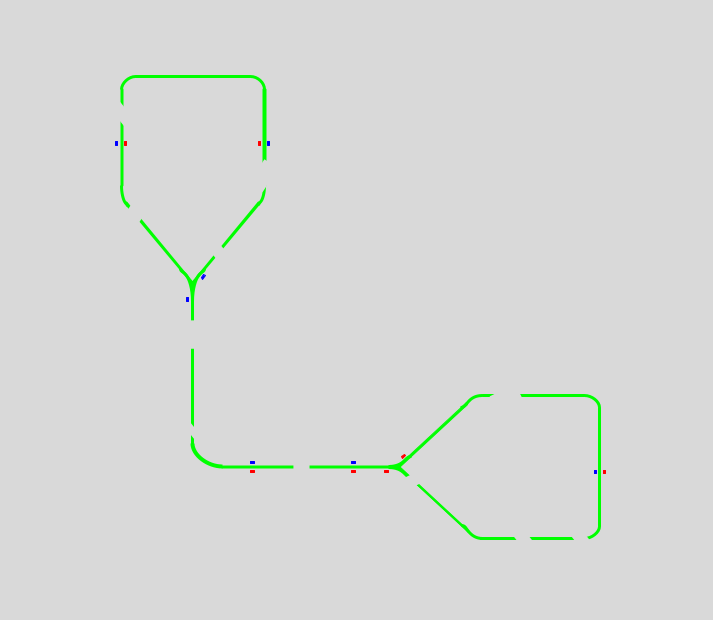
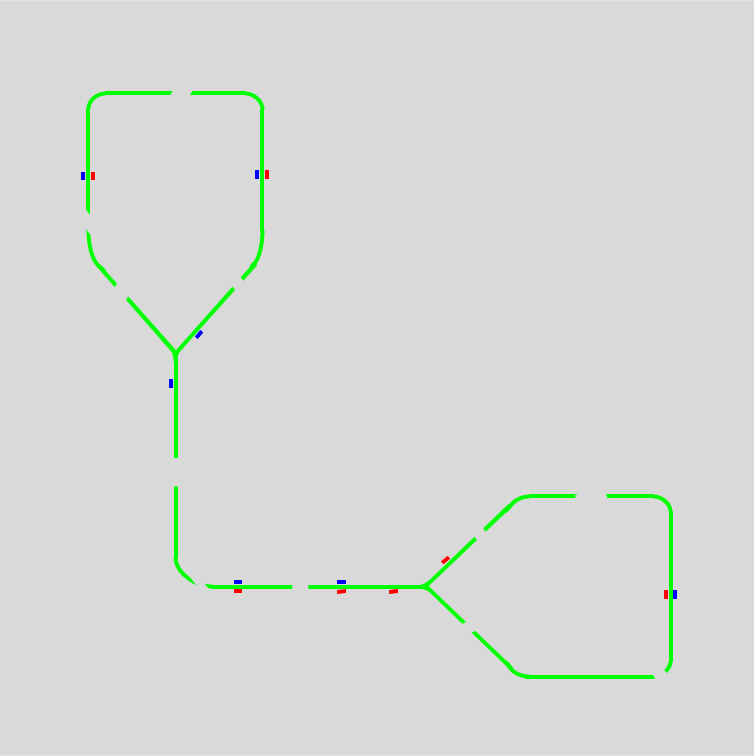
Fix the ability to fork left/right based on marker and update the track map

diff --git a/src/detector/follower_detector.py b/src/detector/follower_detector.py
@@ -22,7 +22,7 @@ class Detector:
     self.command_sub = rospy.Subscriber('mgs_command', MGSCommand, self.mgs_command_callback)
     self.measurements_pub = rospy.Publisher('mgs', MGSMeasurements, queue_size=10)
     self.detection_img_pub = rospy.Publisher('detection_image', Image, queue_size=10)
-    self.track_width = rospy.get_param('~track_width', 0.083) # 0.08216275
+    # self.track_width = rospy.get_param('~track_width', 0.104) # 0.10391598 
     self.follow_left = False
   
 
@@ -74,9 +74,9 @@ class Detector:
       m_track.type = MGSMeasurement.TRACK
       # get point
       if self.follow_left:
-        m_track.position = -np.asscalar(cloud_pts[inds[0],0] + self.track_width / 2.) - 0.0125
+        m_track.position = -np.asscalar(cloud_pts[inds[0],0]) - 0.0125
       else:
-        m_track.position = -np.asscalar(cloud_pts[inds[-1],0] - self.track_width / 2.) - 0.0125
+        m_track.position = -np.asscalar(cloud_pts[inds[-1],0]) - 0.0125
       detections_msg.measurements.append(m_track)
       # draw point:
       if self.detection_img_pub.get_num_connections() > 0:
@@ -93,7 +93,7 @@ class Detector:
       m_marker.type = MGSMeasurement.MARKER
       # get point
       ind = int(np.median(inds))
-      m_marker.position = -np.asscalar(cloud_pts[ind,0] + self.track_width / 2.) - 0.0125
+      m_marker.position = -np.asscalar(cloud_pts[ind,0]) - 0.0125
       detections_msg.measurements.append(m_marker)
       # draw point:
       if self.detection_img_pub.get_num_connections() > 0:
@@ -111,7 +111,7 @@ class Detector:
       m_marker.type = MGSMeasurement.MARKER
       # get point
       ind = int(np.median(inds))
-      m_marker.position = -np.asscalar(cloud_pts[ind,0] + self.track_width / 2.) - 0.0125
+      m_marker.position = -np.asscalar(cloud_pts[ind,0]) - 0.0125
       detections_msg.measurements.append(m_marker)
       # draw point:
       if self.detection_img_pub.get_num_connections() > 0:

diff --git a/src/controller/follower_p_controller.py b/src/controller/follower_p_controller.py
@@ -1,7 +1,7 @@
 #!/usr/bin/env python
 # BEGIN ALL
 import threading
-
+import numpy as np
 import rospy
 from geometry_msgs.msg import Twist
 from followbot.msg import MGSMeasurements, MGSMeasurement, MGSCommand
@@ -22,8 +22,12 @@ class Follower:
     try:
       if msg.command == MGSCommand.STOP:
         self.twist.linear.x = 0.
+      else:
+        self.twist.linear.x = self.v
+      '''
       elif msg.command == MGSCommand.START:
         self.twist.linear.x = self.v
+      '''
     finally:
       self.twist_lock.release()
 
@@ -31,9 +35,18 @@ class Follower:
   def mgs_callback(self, msg):
     # get tape position
     pos = None
+    #pos_list = []
     for m in msg.measurements:
       if m.type == MGSMeasurement.TRACK:
         pos = m.position
+
+    '''
+      pos_list.append(m.position)
+    if(len(pos_list) != 0):
+      pos = np.sum(pos_list)
+    else:
+      pos = None
+    '''
     # set forward velocity
     self.twist_lock.acquire()
     try:

diff --git a/src/detector/marker_identifier.py b/src/detector/marker_identifier.py
@@ -62,7 +62,7 @@ class Identifier:
         if mt['command'] == 'follow_left':
           c.command = MGSCommand.FOLLOW_LEFT
         elif mt['command'] == 'follow_right':
-          c.command = MGSCommand.FOLLOW_LEFT
+          c.command = MGSCommand.FOLLOW_RIGHT
         elif mt['command'] == 'stop':
           c.command = MGSCommand.STOP
         elif mt['command'] == 'flip_polarity':

diff --git a/src/controller/auto_restart.py b/src/controller/auto_restart.py
@@ -10,7 +10,7 @@ class AutoRestart:
     # ros
     self.command_sub = rospy.Subscriber('mgs_command', MGSCommand, self.callback)
     self.command_pub = rospy.Publisher('mgs_command', MGSCommand, queue_size=10)
-    self.delay = rospy.get_param('~delay', 2.0)
+    self.delay = rospy.get_param('~delay', 2)
     self.start_timer()
 
 
